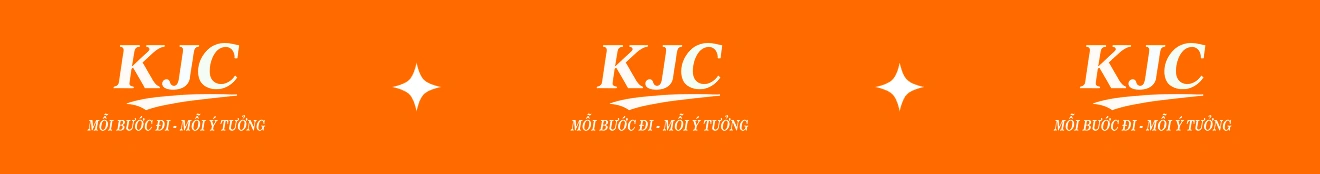
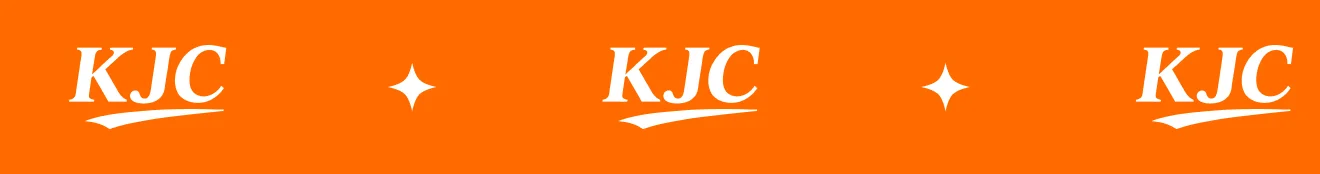
update line

diff --git a/app/gioi-thieu/page.tsx b/app/gioi-thieu/page.tsx
@@ -30,31 +30,21 @@ function BannerSection() {
       {/* Ảnh text-banner căn giữa, cách lề dưới 20px, overlay trên banner */}
       <div className="absolute bottom-3 md:bottom-5 left-1/2 transform -translate-x-1/2 flex flex-col items-center w-full px-4">
         <div className="relative flex flex-col items-center w-full max-w-[411px] md:max-w-none">
-          {/* Ảnh kjc-juve-white nằm giữa trên ảnh text-banner */}
-          <Image
-            src="/kjc-juve-white.webp"
-            alt="KJC Juve White"
-            width={367}
-            height={100}
-            className="hidden md:block h-auto object-contain z-10"
-            style={{ marginBottom: '40px' }}
-          />
-          {/* Mobile kjc-juve-white */}
-          <Image
-            src="/kjc-juve-white.webp"
-            alt="KJC Juve White Mobile"
-            width={230}
-            height={63}
-            className="md:hidden w-[58vw] max-w-[230px] h-auto object-contain z-10 mb-2"
-          />
           {/* Desktop text-banner */}
-          <Image
-            src="/text-banner.webp"
-            alt="Text Banner"
-            width={1092}
-            height={220}
-            className="hidden md:block h-auto object-contain z-0 max-w-full"
-          />
+          <div className="relative flex flex-col items-center w-full max-w-[411px] md:max-w-none">
+  {/* Layer blur bằng kích thước ảnh */}
+              <div className="absolute flex justify-center w-[1092px] h-[220px] backdrop-blur-[0.1px] bg-[rgb(0_0_0_/_16%)]"></div>
+
+              {/* Desktop text-banner */}
+              <Image
+                src="/text-banner.webp"
+                alt="Text Banner"
+                width={1092}
+                height={220}
+                className="hidden md:block h-auto object-contain relative z-10 max-w-full"
+              />
+            </div>
+
           {/* Mobile text-banner - responsive scale */}
           <Image
             src="/text-banner-mb.webp"
